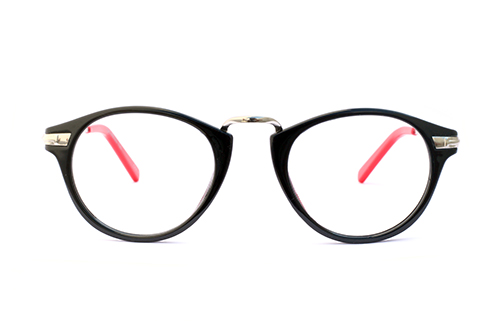
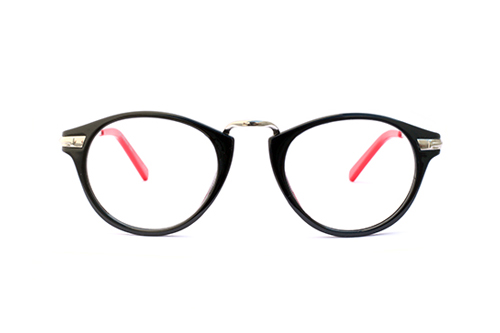
Update product images

Changed region(s): [[0.09, 0.3003, 0.93, 0.7508]]

diff --git a/products.html b/products.html
@@ -74,34 +74,34 @@
                        <div class="p-container">
                             <div class="product-wrapper">
                                 <a href="item.html">
-                                <div class="p-img eg-img"></div><!--end of p-img-->
+
+                                <div class="p-img eg-img-01"></div><!--end of p-img-->
                                 <h3>Guido</h3>
                                 <h4>$80.00</h4>
                                 </a>
                             </div><!--end of product-wrapper-->
-                       
                             <div class="product-wrapper">
-                                <div class="p-img eg-img"></div><!--end of p-img-->
+                                <div class="p-img eg-img-02"></div><!--end of p-img-->
                                 <h3>Guido</h3>
                                 <h4>$80.00</h4>
                             </div><!--end of product-wrapper-->
                             <div class="product-wrapper">
-                                <div class="p-img eg-img"></div><!--end of p-img-->
+                                <div class="p-img eg-img-03"></div><!--end of p-img-->
                                 <h3>Guido</h3>
                                 <h4>$80.00</h4>
                             </div><!--end of product-wrapper-->
                             <div class="product-wrapper product-3">
-                                <div class="p-img eg-img"></div><!--end of p-img-->
+                                <div class="p-img eg-img-04"></div><!--end of p-img-->
                                 <h3>Guido</h3>
                                 <h4>$80.00</h4>
                             </div><!--end of product-wrapper-->
                             <div class="product-wrapper  product-3">
-                                <div class="p-img eg-img"></div><!--end of p-img-->
+                                <div class="p-img eg-img-05"></div><!--end of p-img-->
                                 <h3>Guido</h3>
                                 <h4>$80.00</h4>
                             </div><!--end of product-wrapper-->
                             <div class="product-wrapper  product-3">
-                                <div class="p-img eg-img"></div><!--end of p-img-->
+                                <div class="p-img eg-img-06"></div><!--end of p-img-->
                                 <h3>Guido</h3>
                                 <h4>$80.00</h4>
                             </div><!--end of product-wrapper-->
@@ -116,32 +116,32 @@
                     <p>Lorem ipsum dolor sit amet consectetur adipisicing elit. Corporis dicta eveniet maxime quaerat corrupti odio ratione molestiae mollitia laudantium rem.</p>
                              <div class="p-container">
                                     <div class="product-wrapper">
-                                    <div class="p-img sg-img"></div><!--end of p-img-->
+                                    <div class="p-img sg-img-01"></div><!--end of p-img-->
                                     <h3>Guido</h3>
                                     <h4>$80.00</h4>
                                 </div><!--end of product-wrapper-->
                                 <div class="product-wrapper">
-                                    <div class="p-img sg-img"></div><!--end of p-img-->
+                                    <div class="p-img sg-img-02"></div><!--end of p-img-->
                                     <h3>Guido</h3>
                                     <h4>$80.00</h4>
                                 </div><!--end of product-wrapper-->
                                 <div class="product-wrapper">
-                                    <div class="p-img sg-img"></div><!--end of p-img-->
+                                    <div class="p-img sg-img-03"></div><!--end of p-img-->
                                     <h3>Guido</h3>
                                     <h4>$80.00</h4>
                                 </div><!--end of product-wrapper-->
                                 <div class="product-wrapper product-3">
-                                    <div class="p-img sg-img"></div><!--end of p-img-->
+                                    <div class="p-img sg-img-04"></div><!--end of p-img-->
                                     <h3>Guido</h3>
                                     <h4>$80.00</h4>
                                 </div><!--end of product-wrapper-->
                                 <div class="product-wrapper  product-3">
-                                    <div class="p-img sg-img"></div><!--end of p-img-->
+                                    <div class="p-img sg-img-05"></div><!--end of p-img-->
                                     <h3>Guido</h3>
                                     <h4>$80.00</h4>
                                 </div><!--end of product-wrapper-->
                                 <div class="product-wrapper  product-3">
-                                    <div class="p-img sg-img"></div><!--end of p-img-->
+                                    <div class="p-img sg-img-06"></div><!--end of p-img-->
                                     <h3>Guido</h3>
                                     <h4>$80.00</h4>
                                 </div><!--end of product-wrapper-->

diff --git a/scss/_sections.scss b/scss/_sections.scss
@@ -98,12 +98,43 @@
                          }  //  end of .p-img
 
                          //eyeglasses-img
-                         .eg-img{
+                         .eg-img-01{
                              background-image: url(../images/product/product-eg-01.jpg);
                          }
+                         .eg-img-02{
+                             background-image: url(../images/product/product-eg-02.jpg);
+                         }
+                         .eg-img-03{
+                             background-image: url(../images/product/product-eg-03.jpg);
+                         }
+                         .eg-img-04{
+                             background-image: url(../images/product/product-eg-04.jpg);
+                         }
+                         .eg-img-05{
+                             background-image: url(../images/product/product-eg-05.jpg);
+                         }
+                         .eg-img-06{
+                             background-image: url(../images/product/product-eg-06.jpg);
+                         }
+
                          //sunglasses-img
-                         .sg-img{
+                         .sg-img-01{
                             background-image: url(../images/product/product-sg-01.jpg);
+                        }
+                         .sg-img-02{
+                            background-image: url(../images/product/product-sg-02.jpg);
+                        }
+                         .sg-img-03{
+                            background-image: url(../images/product/product-sg-03.jpg);
+                        }
+                         .sg-img-04{
+                            background-image: url(../images/product/product-sg-04.jpg);
+                        }
+                         .sg-img-05{
+                            background-image: url(../images/product/product-sg-05.jpg);
+                        }
+                         .sg-img-06{
+                            background-image: url(../images/product/product-sg-06.jpg);
                         }
 
                         h3{
